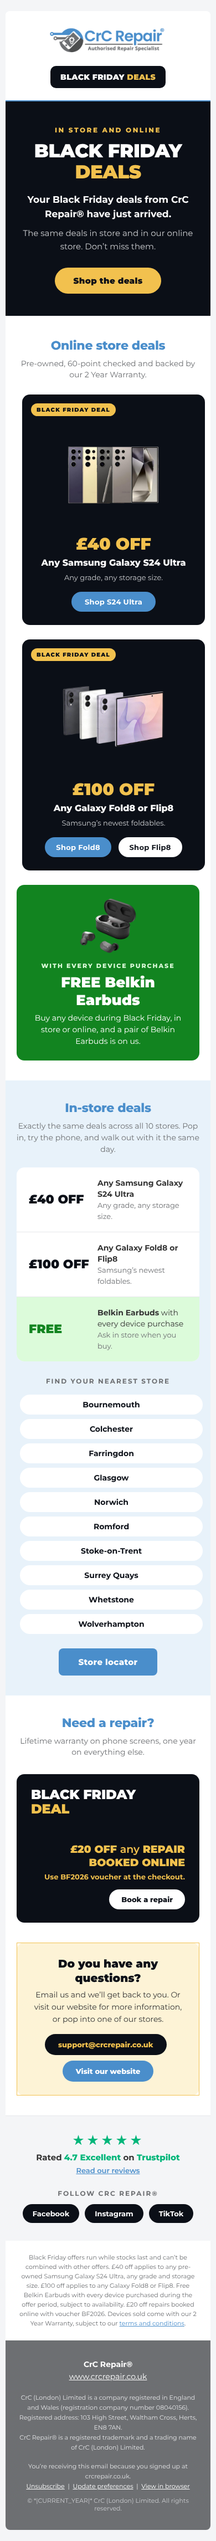
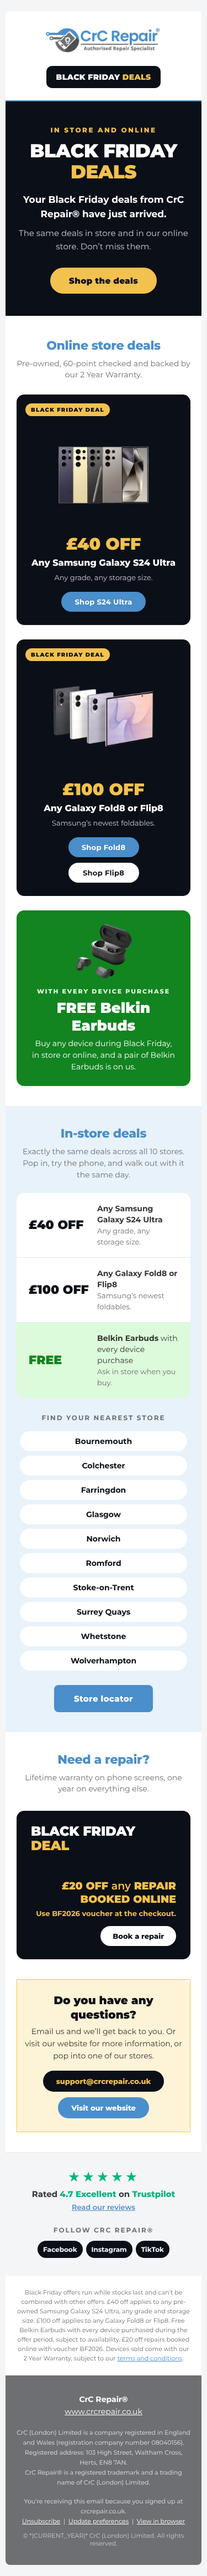
Black Friday email: centre phone layout, fit 320px screens, equal centred Fold8/Flip8 buttons
Claude-Session: https://claude.ai/code/session_012wEFYQDrrxgWottX9NzEPQ

Changed region(s): [[0.0587, 0.0, 0.968, 0.9978]]

diff --git a/output/email/black-friday-2026/crc-black-friday-2026-email.html b/output/email/black-friday-2026/crc-black-friday-2026-email.html
@@ -42,11 +42,14 @@
       .hero-h1 { font-size:34px !important; line-height:38px !important; }
       .section-h2 { font-size:22px !important; line-height:28px !important; }
       .pad-mobile { padding-left:20px !important; padding-right:20px !important; }
-      .deal-cell { display:block !important; width:100% !important; padding-bottom:16px !important; }
+      .deal-cell { display:block !important; width:auto !important; padding-left:0 !important; padding-right:0 !important; padding-bottom:16px !important; }
       .header-logo { text-align:center !important; padding-bottom:14px !important; }
       .header-cta { text-align:center !important; }
-      .store-col { display:block !important; width:100% !important; }
+      .store-col { display:block !important; width:auto !important; }
       td.repair-cell { display:block !important; width:auto !important; }
+      .social-row td { padding:0 3px !important; }
+      .social-row a { padding:8px 10px !important; font-size:12px !important; }
+      td.questions-cell { padding-left:12px !important; padding-right:12px !important; }
       td.earbuds-img { display:block !important; width:auto !important; padding:20px 26px 0 26px !important; }
       td.earbuds-txt { display:block !important; width:auto !important; padding:10px 26px 24px 26px !important; }
     }
@@ -161,9 +164,8 @@
                         <p style="margin:0 0 6px 0; font-family:'Montserrat','Helvetica Neue',Arial,sans-serif; font-size:30px; line-height:34px; font-weight:900; color:#f2c14e;">&pound;100 OFF</p>
                         <p style="margin:0 0 6px 0; font-family:'Montserrat','Helvetica Neue',Arial,sans-serif; font-size:16px; line-height:22px; font-weight:800; color:#ffffff;">Any Galaxy Fold8 or Flip8</p>
                         <p style="margin:0 0 11px 0; font-family:'Montserrat','Helvetica Neue',Arial,sans-serif; font-size:13px; line-height:19px; color:#c8cacd;">Samsung&rsquo;s newest foldables.</p>
-                        <a href="https://www.crcrepair.co.uk/store/product/phones/samsung-phones/f-series/samsung-galaxy-fold8/" target="_blank" style="display:inline-block; margin:5px 0; padding:10px 20px; background-color:#4a8ecb; color:#ffffff; font-family:'Montserrat','Helvetica Neue',Arial,sans-serif; font-size:13px; font-weight:700; text-decoration:none; border-radius:30px; letter-spacing:0.3px;">Shop Fold8</a>
-                        &nbsp;
-                        <a href="https://www.crcrepair.co.uk/store/product/phones/samsung-phones/f-series/samsung-galaxy-z-flip8/" target="_blank" style="display:inline-block; margin:5px 0; padding:10px 20px; background-color:#ffffff; color:#0b0f17; font-family:'Montserrat','Helvetica Neue',Arial,sans-serif; font-size:13px; font-weight:700; text-decoration:none; border-radius:30px; letter-spacing:0.3px;">Shop Flip8</a>
+                        <a href="https://www.crcrepair.co.uk/store/product/phones/samsung-phones/f-series/samsung-galaxy-fold8/" target="_blank" style="display:inline-block; margin:5px 0; width:88px; padding:10px 20px; text-align:center; white-space:nowrap; background-color:#4a8ecb; color:#ffffff; font-family:'Montserrat','Helvetica Neue',Arial,sans-serif; font-size:13px; font-weight:700; text-decoration:none; border-radius:30px; letter-spacing:0.3px;">Shop Fold8</a><br />
+                        <a href="https://www.crcrepair.co.uk/store/product/phones/samsung-phones/f-series/samsung-galaxy-z-flip8/" target="_blank" style="display:inline-block; margin:5px 0; width:88px; padding:10px 20px; text-align:center; white-space:nowrap; background-color:#ffffff; color:#0b0f17; font-family:'Montserrat','Helvetica Neue',Arial,sans-serif; font-size:13px; font-weight:700; text-decoration:none; border-radius:30px; letter-spacing:0.3px;">Shop Flip8</a>
                       </td></tr>
                     </table>
                   </td>
@@ -298,12 +300,11 @@
             <td bgcolor="#ffffff" style="padding:0 30px 36px 30px;" class="pad-mobile">
               <table role="presentation" border="0" cellpadding="0" cellspacing="0" width="100%" style="background-color:#fdf3d6; border:1px solid #f2c14e; border-radius:14px;">
                 <tr>
-                  <td style="padding:24px 26px 19px 26px; text-align:center;">
+                  <td class="questions-cell" style="padding:24px 26px 19px 26px; text-align:center;">
                     <p style="margin:0 0 6px 0; font-family:'Montserrat','Helvetica Neue',Arial,sans-serif; font-size:20px; line-height:26px; color:#0b0f17; font-weight:900;">Do you have any questions?</p>
                     <p style="margin:0 0 11px 0; font-family:'Montserrat','Helvetica Neue',Arial,sans-serif; font-size:14px; line-height:22px; color:#333333;">Email us and we&rsquo;ll get back to you. Or visit our website for more information, or pop into one of our stores.</p>
-                    <a href="mailto:support@crcrepair.co.uk?subject=Black%20Friday%20deals" style="display:inline-block; margin:5px 0; padding:11px 24px; background-color:#0b0f17; color:#f2c14e; font-family:'Montserrat','Helvetica Neue',Arial,sans-serif; font-size:13px; font-weight:800; text-decoration:none; border-radius:30px;">support@crcrepair.co.uk</a>
-                    &nbsp;
-                    <a href="https://www.crcrepair.co.uk" target="_blank" style="display:inline-block; margin:5px 0; padding:11px 24px; background-color:#4a8ecb; color:#ffffff; font-family:'Montserrat','Helvetica Neue',Arial,sans-serif; font-size:13px; font-weight:800; text-decoration:none; border-radius:30px;">Visit our website</a>
+                    <a href="mailto:support@crcrepair.co.uk?subject=Black%20Friday%20deals" style="display:inline-block; margin:5px 4px; padding:11px 24px; background-color:#0b0f17; color:#f2c14e; font-family:'Montserrat','Helvetica Neue',Arial,sans-serif; font-size:13px; font-weight:800; text-decoration:none; border-radius:30px;">support@crcrepair.co.uk</a>
+                    <a href="https://www.crcrepair.co.uk" target="_blank" style="display:inline-block; margin:5px 4px; padding:11px 24px; background-color:#4a8ecb; color:#ffffff; font-family:'Montserrat','Helvetica Neue',Arial,sans-serif; font-size:13px; font-weight:800; text-decoration:none; border-radius:30px;">Visit our website</a>
                   </td>
                 </tr>
               </table>
@@ -323,7 +324,7 @@
                 <a href="https://uk.trustpilot.com/review/crcrepair.co.uk" target="_blank" style="color:#4a8ecb; text-decoration:underline; font-weight:600;">Read our reviews</a>
               </p>
               <p style="margin:0 0 12px 0; font-family:'Montserrat','Helvetica Neue',Arial,sans-serif; font-size:12px; color:#6d6f72; text-transform:uppercase; letter-spacing:2px; font-weight:700;">Follow CrC Repair&#174;</p>
-              <table role="presentation" border="0" cellpadding="0" cellspacing="0" align="center">
+              <table role="presentation" border="0" cellpadding="0" cellspacing="0" align="center" class="social-row">
                 <tr>
                   <td style="padding:0 5px;"><a href="https://facebook.com/crcrepair.uk" target="_blank" style="display:inline-block; padding:9px 18px; background-color:#0b0f17; color:#ffffff; font-family:'Montserrat','Helvetica Neue',Arial,sans-serif; font-size:13px; font-weight:700; text-decoration:none; border-radius:30px;">Facebook</a></td>
                   <td style="padding:0 5px;"><a href="https://instagram.com/crcrepair.uk" target="_blank" style="display:inline-block; padding:9px 18px; background-color:#0b0f17; color:#ffffff; font-family:'Montserrat','Helvetica Neue',Arial,sans-serif; font-size:13px; font-weight:700; text-decoration:none; border-radius:30px;">Instagram</a></td>
